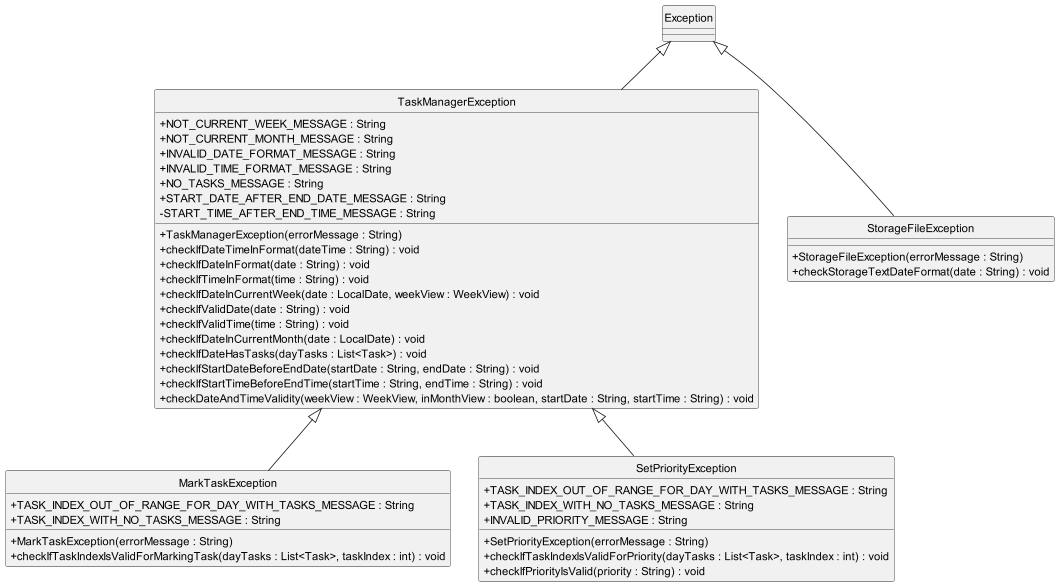
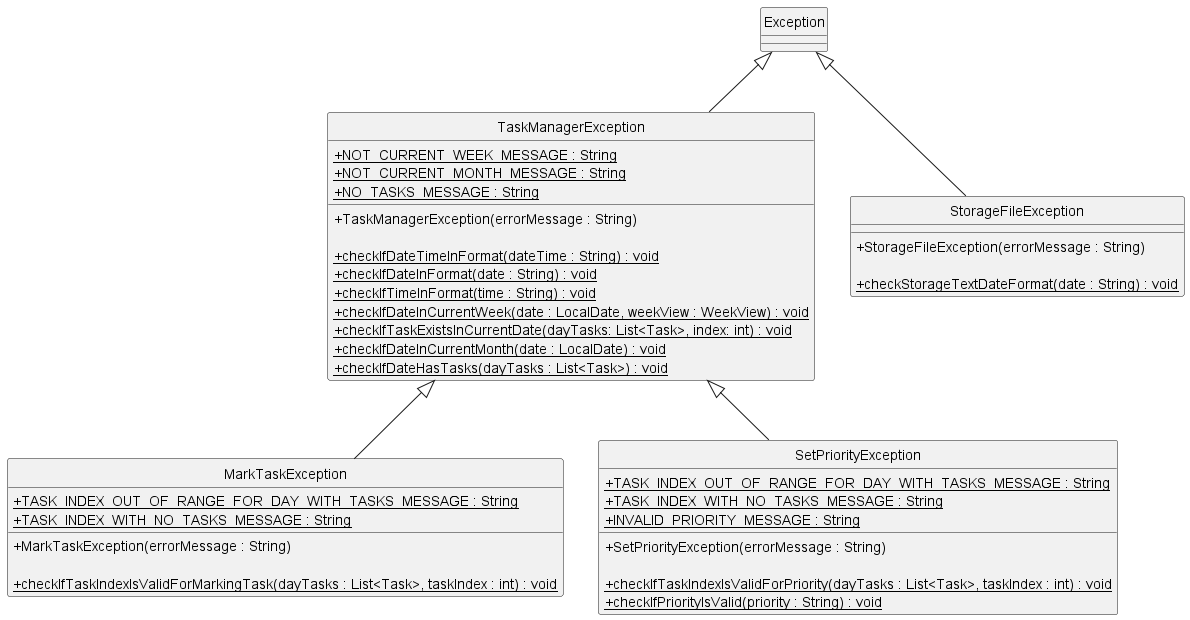
DG changes

diff --git a/src/main/java/data/exceptions/TaskManagerException.java b/src/main/java/data/exceptions/TaskManagerException.java
@@ -14,10 +14,6 @@ public class TaskManagerException extends Exception {
             "The date must be within the current week. Please try again.";
     public static final String NOT_CURRENT_MONTH_MESSAGE =
             "The date must be within the current month. Please try again.";
-    public static final String INVALID_DATE_FORMAT_MESSAGE =
-            "Invalid date format. Please enter a valid date in the format: dd/MM/yyyy";
-    public static final String INVALID_TIME_FORMAT_MESSAGE =
-            "Invalid time format. Please enter a valid time in the format: HH:mm";
     public static final String NO_TASKS_MESSAGE =
             "There are no tasks on this date. Please try again.";
 
@@ -80,24 +76,6 @@ public class TaskManagerException extends Exception {
             throw new TaskManagerException(NOT_CURRENT_WEEK_MESSAGE);
         }
     }
-
-    /**
-     * Checks if the provided string is a valid date in the format "dd/MM/yyyy".
-     * Throws a TaskManagerException if the date is not valid.
-     *
-     * @param date The date string to be checked.
-     * @throws TaskManagerException If the date string is not a valid date in the format "dd/MM/yyyy".
-     */
-    public static void checkIfValidDate(String date) throws TaskManagerException {
-        try {
-            DateTimeFormatter formatter = DateTimeFormatter.ofPattern("dd/MM/yyyy");
-            LocalDate.parse(date, formatter);
-        } catch (DateTimeParseException e) {
-            throw new TaskManagerException(INVALID_DATE_FORMAT_MESSAGE);
-        }
-    }
-
-
 
     /**
      * Method that checks if the date is in the current month shown by the calendar.

diff --git a/unused/data/exceptions/TaskManagerException.java b/unused/data/exceptions/TaskManagerException.java
@@ -72,6 +72,22 @@ public class TaskManagerException extends Exception {
     }
 
     /**
+     * Checks if the provided string is a valid date in the format "dd/MM/yyyy".
+     * Throws a TaskManagerException if the date is not valid.
+     *
+     * @param date The date string to be checked.
+     * @throws TaskManagerException If the date string is not a valid date in the format "dd/MM/yyyy".
+     */
+    public static void checkIfValidDate(String date) throws TaskManagerException {
+        try {
+            DateTimeFormatter formatter = DateTimeFormatter.ofPattern("dd/MM/yyyy");
+            LocalDate.parse(date, formatter);
+        } catch (DateTimeParseException e) {
+            throw new TaskManagerException(INVALID_DATE_FORMAT_MESSAGE);
+        }
+    }
+
+    /**
      * Checks the validity of the provided date and time.
      * The date is checked for its format and whether it falls within the current week or month.
      * The time is checked for its format.

diff --git a/docs/DeveloperGuide.md b/docs/DeveloperGuide.md
@@ -270,8 +270,8 @@ The `updateManager` method facilitates the updating of tasks. It prompts the use
 #### Method Signature
 
 ```
-public void updateManager(Scanner scanner, WeekView weekView, MonthView monthView, boolean inMonthView,
-                          TaskManager taskManager, int day, int taskIndex, String newDescription)
+public void updateManager(Scanner scanner, WeekView weekView, MonthView monthView, boolean inMonthView, 
+        TaskManager taskManager, int day, int taskIndex, String newDescription) 
         throws TaskManagerException, DateTimeParseException
 ```
 
@@ -300,6 +300,8 @@ public void updateManager(Scanner scanner, WeekView weekView, MonthView monthVie
 5. Provides feedback to the user upon successful update.
 
 ### Update Task Method
+
+![UpdateTaskSequenceDiagram.png](images%2Fsequence%2FUpdateTaskSequenceDiagram.png)
 
 The `updateTask` method is responsible for modifying the details of a task based on the user input.
 
@@ -342,8 +344,8 @@ The `addTask` method orchestrates the creation and addition of a new task to the
 #### Method Signature
 
 ```
-public static void addTask(LocalDate date, String taskDescription, TaskType taskType, String[] dates,
-                           String[] times) throws TaskManagerException
+public static void addTask(LocalDate date, String taskDescription, TaskType taskType, String[] dates, 
+        String[] times) throws TaskManagerException
 ```
 
 #### Parameters
@@ -362,7 +364,7 @@ The `addManager` method facilitates the management of adding tasks from user inp
 
 ```
 public void addManager(Scanner scanner, WeekView weekView, MonthView monthView, boolean inMonthView, String action,
-                       String day, String taskTypeString, String taskDescription)
+        String day, String taskTypeString, String taskDescription)
         throws TaskManagerException, DateTimeParseException
 ```
 
